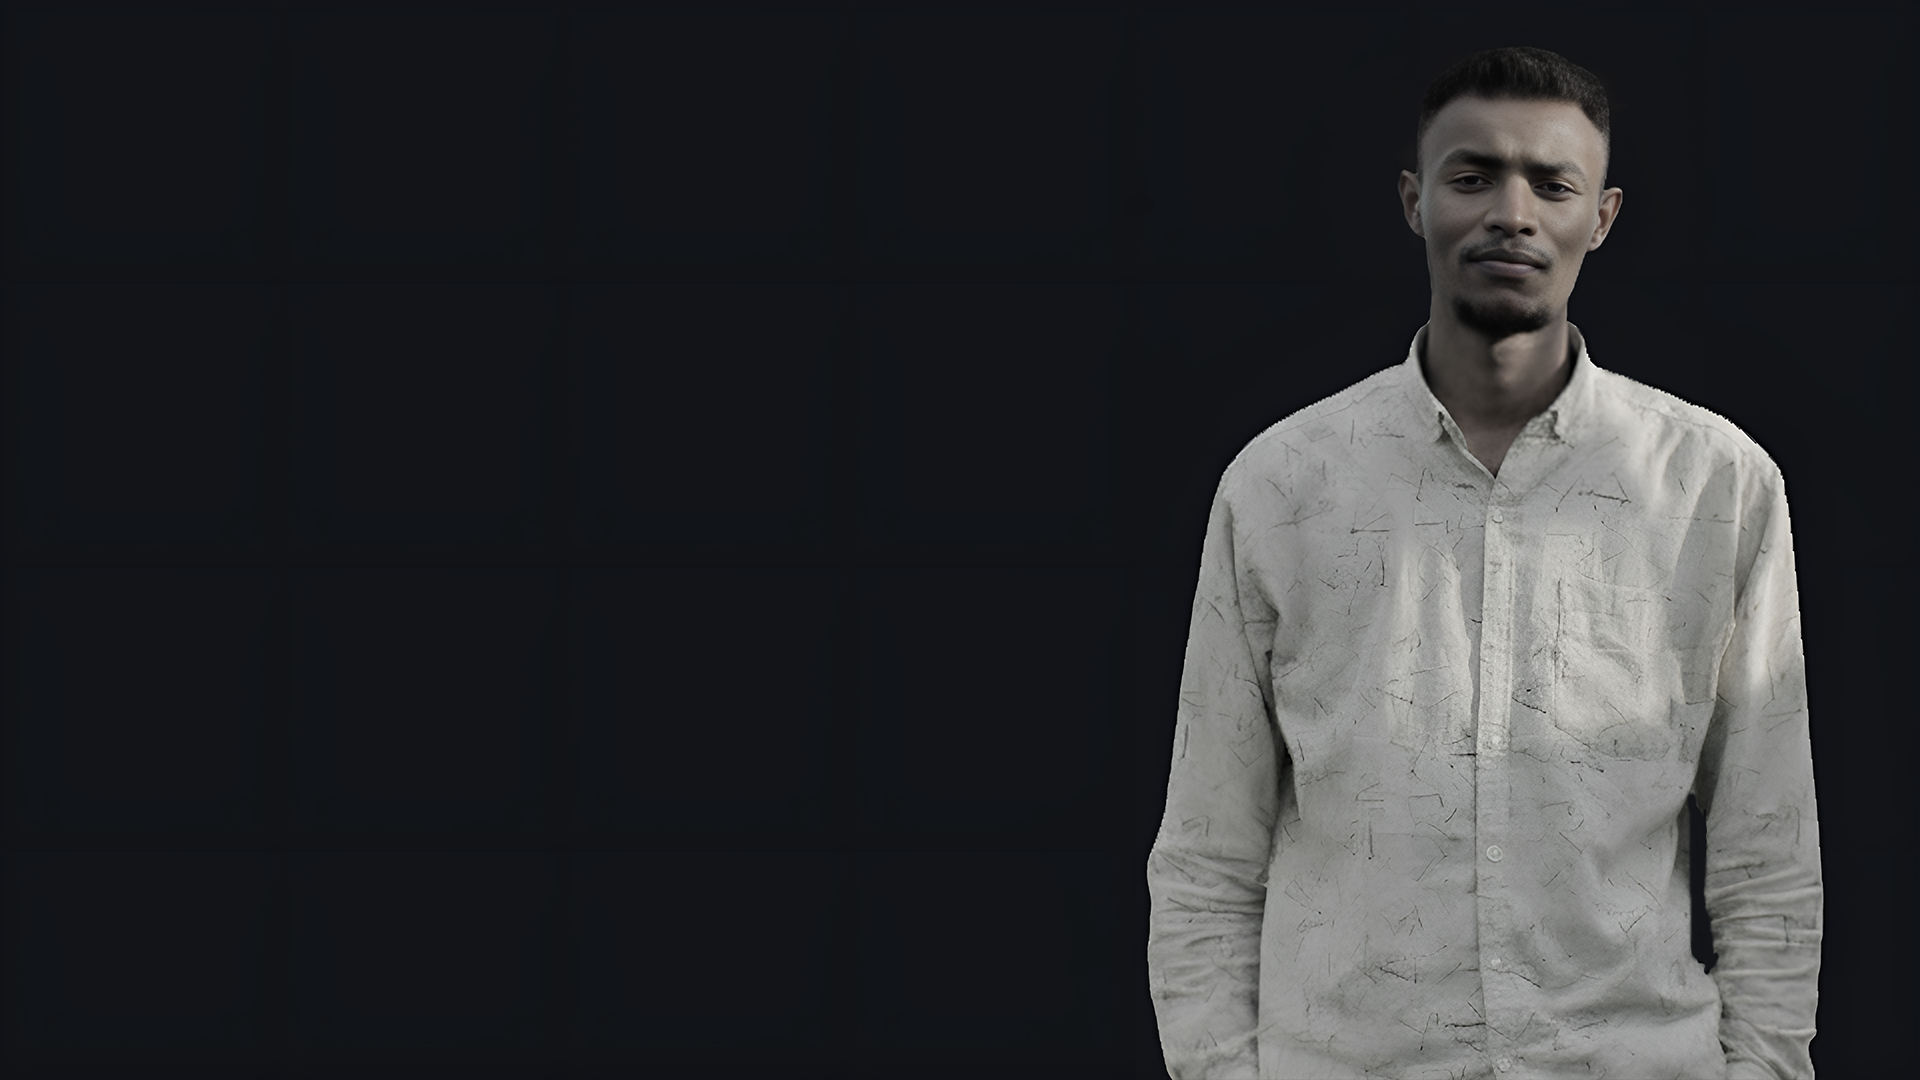
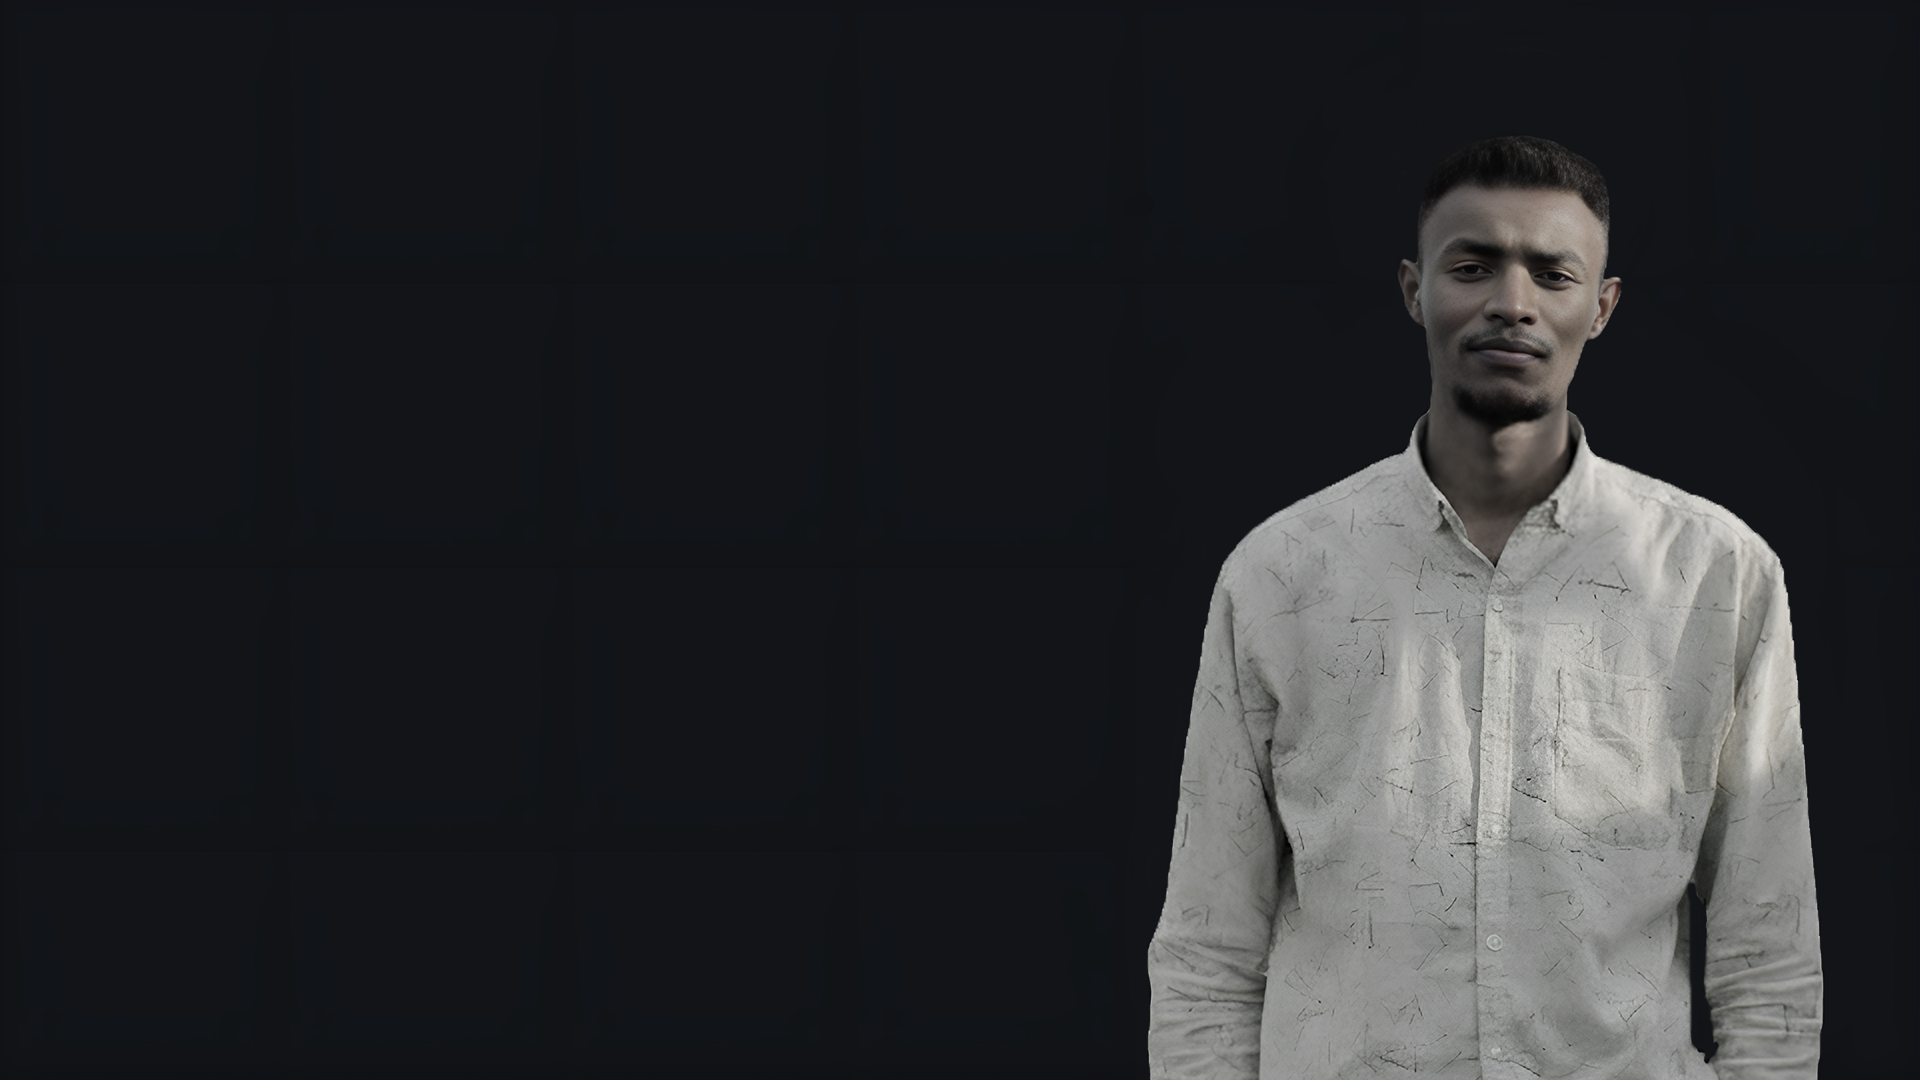
modefy image and some css part

Changed region(s): [[0.5938, 0.0611, 0.9688, 1.0], [0.6875, 0.9167, 0.7188, 0.9472]]

diff --git a/porto.css b/porto.css
@@ -162,7 +162,7 @@ body {
   background-position: center;
   background-size: cover;
   width: 100%;
-  min-height: 110vh;
+  min-height: 100vh;
 }
 
 
@@ -213,6 +213,14 @@ body {
   justify-content: space-between;
   white-space: nowrap;
 }
+
+@media (max-width: 860px){
+  .contner3{
+    display: flex;
+    flex-direction: column;
+  }
+}
+
 
 .skills {
   margin: 5em 3em;
